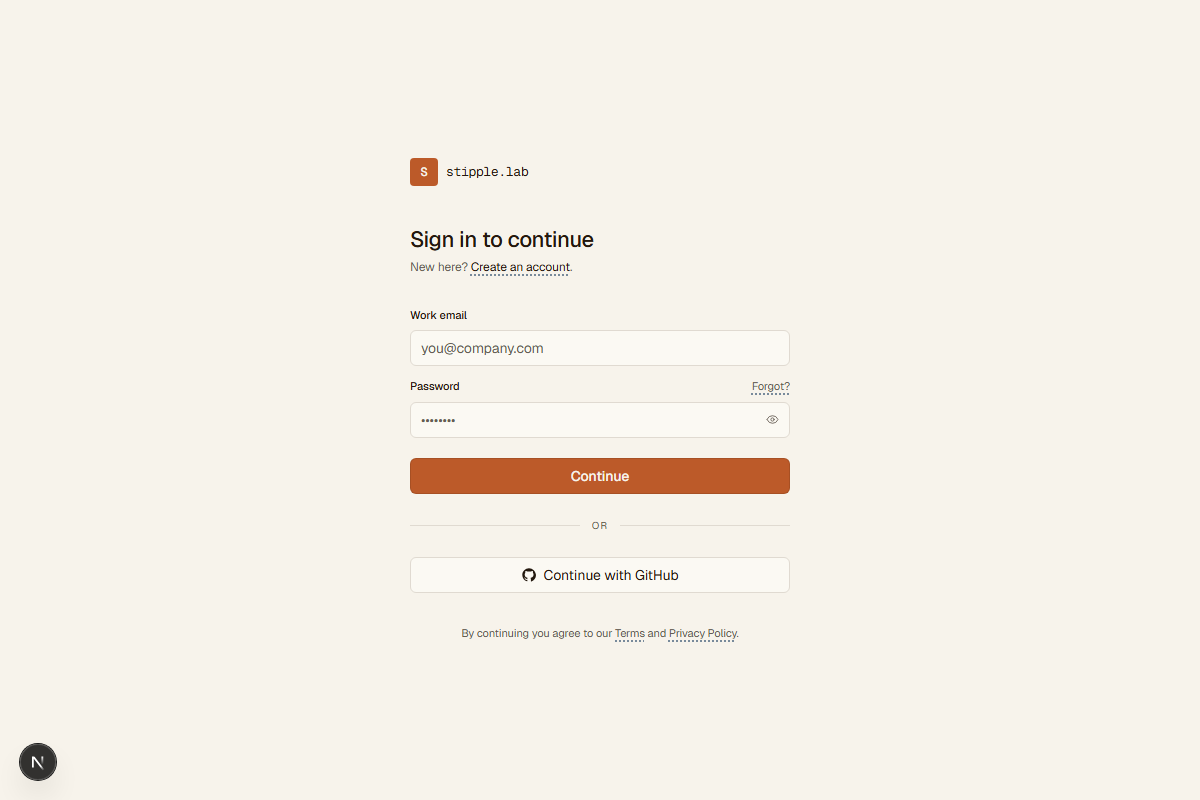
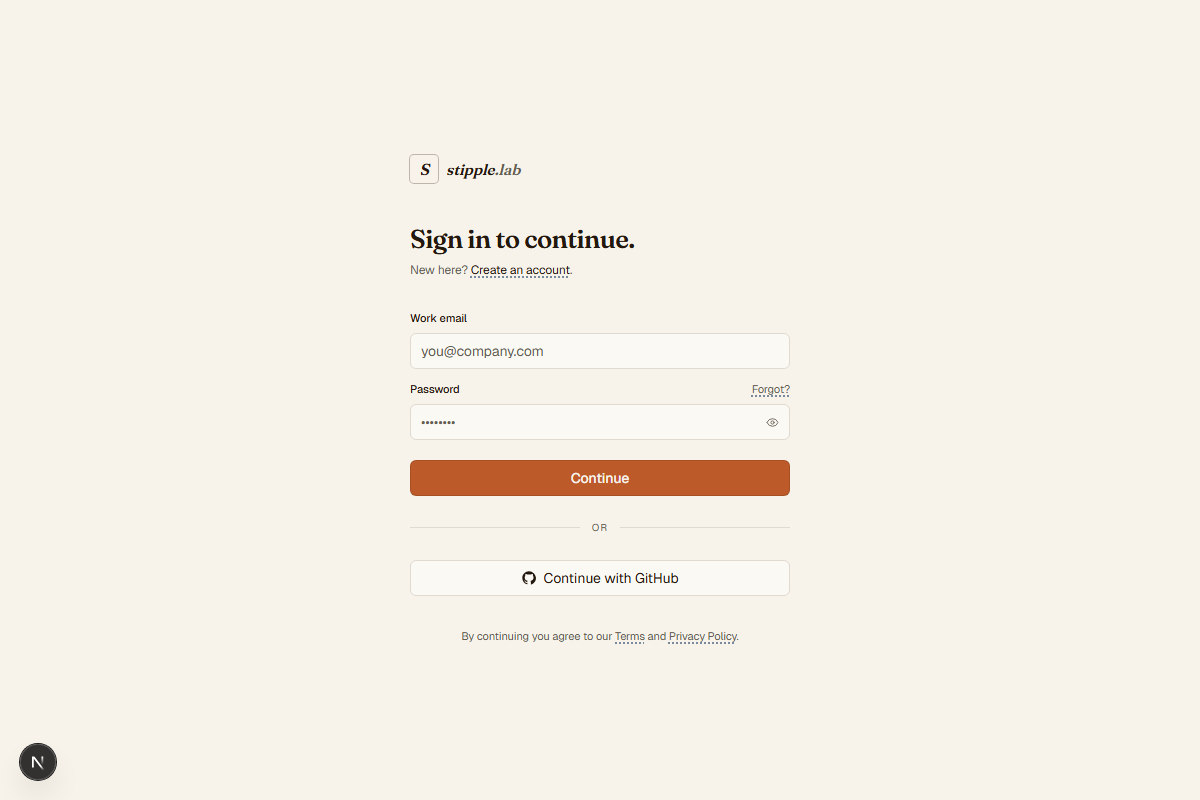
Bad-day pass on three remaining specimen plates
Same critique-then-fix cycle applied to the three specimen plates not
covered by the app-shell pass. Smaller scope each — these were already
tighter than app-shell — but two recurring issues surfaced.

Recurring: sans-serif h1/h2 in Geist Sans where every other plate's
hero head uses Fraunces italic. The catalogue voice was inconsistent
across exactly the four plates that wear the specimen frame.

- centered-signin: brand mark rebuilt to match app-shell (Fraunces
  italic "S" in ringed badge + Fraunces italic "stipple.lab" wordmark
  with muted ".lab" suffix). h1 "Sign in to continue." → Fraunces
  display italic. The two specimen plates that carry the wordmark now
  use the same one.
- inbox-zero: h2 "Inbox zero." → Fraunces display italic. Pairs with
  no-encounters-yet which already used Fraunces.
- activity-heatmap: h2 "Activity, last year." → Fraunces display
  italic, matching the analytical-dashboard register. Legend
  recalibrated from ordinal "LESS · ● · ● · ● · ● · ● · MORE" to
  numeric "0 · ● · ● · ● · ● · ● · {max} / day" — the scale is now
  self-documenting, not relative.

diff --git a/components/showcase/dashboards/activity-heatmap.tsx b/components/showcase/dashboards/activity-heatmap.tsx
@@ -121,8 +121,11 @@ export default function ActivityHeatmap() {
       <div className="w-full max-w-[560px]">
         {/* Header */}
         <div className="mb-5 flex items-baseline justify-between">
-          <h2 className="text-[14px] font-medium tracking-[-0.01em] text-[var(--color-text)]">
-            Activity, last year
+          <h2
+            className="font-display text-[19px] italic leading-none text-[var(--color-text)]"
+            style={{ fontVariationSettings: '"opsz" 24, "SOFT" 30' }}
+          >
+            Activity, last year.
           </h2>
           <div className="font-mono text-[10px] uppercase tracking-[0.18em] text-[var(--color-text-muted)]">
             {total.toLocaleString()} contributions
@@ -216,7 +219,9 @@ export default function ActivityHeatmap() {
             })}
           </g>
 
-          {/* Legend — density ramp showing how many dots = how much value. */}
+          {/* Legend — calibrated area scale. Numeric anchors at each end so
+              the ramp reads as "0 to {max} contributions" rather than the
+              ordinal less → more. */}
           <g
             transform={`translate(${dayLabelGutter} ${
               monthLabelHeight + gridHeight + legendGap
@@ -229,18 +234,17 @@ export default function ActivityHeatmap() {
               style={{
                 fontFamily: "var(--font-mono)",
                 fontSize: 7,
-                letterSpacing: "0.18em",
-                textTransform: "uppercase",
+                letterSpacing: "0.12em",
               }}
             >
-              less
+              0
             </text>
             {[0, 0.25, 0.5, 0.75, 1].map((norm, i) => {
               const r = radiusFor(norm, 1);
               return (
                 <g
                   key={i}
-                  transform={`translate(${30 + i * (CELL + 2)} 0)`}
+                  transform={`translate(${18 + i * (CELL + 2)} 0)`}
                 >
                   <circle
                     cx={CELL / 2}
@@ -252,17 +256,16 @@ export default function ActivityHeatmap() {
               );
             })}
             <text
-              x={30 + 5 * (CELL + 2) + 4}
+              x={18 + 5 * (CELL + 2) + 4}
               y={CELL - 1}
               className="fill-[var(--color-text-muted)]"
               style={{
                 fontFamily: "var(--font-mono)",
                 fontSize: 7,
-                letterSpacing: "0.18em",
-                textTransform: "uppercase",
+                letterSpacing: "0.12em",
               }}
             >
-              more
+              {max} / day
             </text>
           </g>
         </svg>

diff --git a/components/showcase/auth/centered-signin.tsx b/components/showcase/auth/centered-signin.tsx
@@ -11,21 +11,33 @@ export default function CenteredSignin() {
   return (
     <div className="grid h-full w-full place-items-center bg-[var(--color-bg)] px-4 py-10">
       <div className="w-full max-w-[380px]">
-        {/* Wordmark — small, restrained */}
+        {/* Wordmark — small, restrained. Matches app-shell brand mark. */}
         <div className="mb-10 flex items-center gap-2">
-          <div
+          <span
             aria-hidden
-            className="grid h-7 w-7 place-items-center rounded-[var(--radius-xs)] bg-[var(--color-accent)] font-mono text-[12px] font-medium text-[var(--color-accent-fg)]"
+            className="grid h-7 w-7 place-items-center rounded-[var(--radius-xs)] bg-[var(--color-bg)] ring-1 ring-[var(--color-border-strong)]"
           >
-            S
-          </div>
-          <span className="font-mono text-[13px] tracking-tight text-[var(--color-text)]">
-            stipple.lab
+            <span
+              className="font-display text-[16px] italic leading-none text-[var(--color-text)]"
+              style={{ fontVariationSettings: '"opsz" 24, "SOFT" 30' }}
+            >
+              S
+            </span>
+          </span>
+          <span
+            className="font-display text-[15px] italic leading-none text-[var(--color-text)]"
+            style={{ fontVariationSettings: '"opsz" 24, "SOFT" 30' }}
+          >
+            stipple
+            <span className="text-[var(--color-text-muted)]">.lab</span>
           </span>
         </div>
 
-        <h1 className="text-[22px] font-medium leading-tight tracking-[-0.02em]">
-          Sign in to continue
+        <h1
+          className="font-display text-[26px] leading-tight tracking-[-0.022em] text-[var(--color-text)]"
+          style={{ fontVariationSettings: '"opsz" 36, "SOFT" 30' }}
+        >
+          Sign in to continue.
         </h1>
         <p className="mt-1.5 text-xs text-[var(--color-text-muted)]">
           New here?{" "}

diff --git a/components/showcase/empty-states/inbox-zero.tsx b/components/showcase/empty-states/inbox-zero.tsx
@@ -10,7 +10,10 @@ export default function InboxZero() {
         {/* Pointillism illustration: an empty envelope/tray, two-tone, varying density */}
         <Illustration />
 
-        <h2 className="mt-8 text-[22px] font-medium leading-tight tracking-[-0.02em]">
+        <h2
+          className="mt-8 font-display text-[28px] leading-tight tracking-[-0.022em] text-[var(--color-text)]"
+          style={{ fontVariationSettings: '"opsz" 48, "SOFT" 30' }}
+        >
           Inbox zero.
         </h2>
         <p className="mt-2 max-w-[34ch] text-sm text-[var(--color-text-muted)]">
